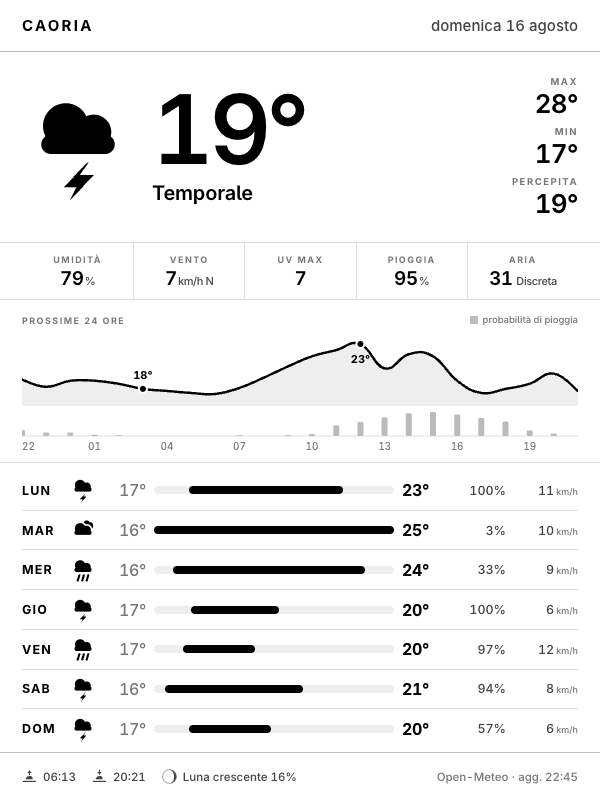
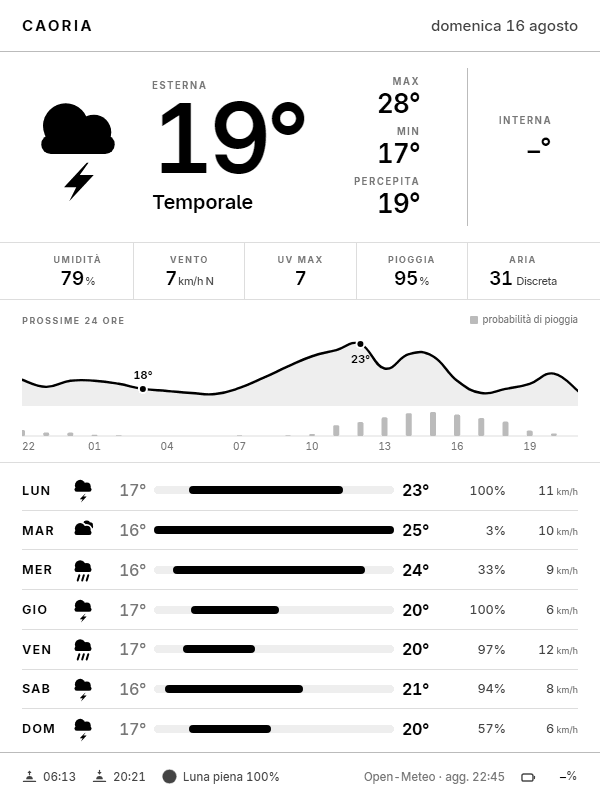
FIXED some bugs

diff --git a/src/k4weather/templates/style.css b/src/k4weather/templates/style.css
@@ -175,9 +175,10 @@ svg {
 /* ----------------------------------------------------- indoor temperature */
 
 /* The room's temperature is not rendered here: the Kindle writes it on top of
-   the image, in the bitmap font of `fbink` — 32x64 px per character, three of
-   them — or, where fbink is not installed, in the smaller one of `eips`. This
-   box is the hole left for it, and its position comes straight from
+   the image with `fbink`, in this page's own font at the size below — or, if
+   the font did not arrive, in fbink's bitmap face at 16x32 px per character,
+   three of them, and failing that in the smaller one of `eips`. This box is
+   the hole left for it, and its position comes straight from
    INDOOR_SLOT_* in model.py, in pixels of the final PNG — hence the absolute
    placement against `body`. Everything else in this block hangs off it, so
    there is exactly one number to get right.

diff --git a/src/k4weather/cli.py b/src/k4weather/cli.py
@@ -192,6 +192,16 @@ def cmd_inspect(args) -> int:
 
 
 def main(argv: list[str] | None = None) -> int:
+    # Windows chooses the ANSI code page for a redirected stream, and neither
+    # the check marks `inspect` prints nor the dashes in the log messages are
+    # in it: `python -m k4weather inspect out > report.txt` then died on an
+    # encode error rather than printing a report, and the same run through a
+    # terminal was fine. UTF-8 on both streams, and replacement rather than an
+    # exception wherever even that cannot be honoured.
+    for stream in (sys.stdout, sys.stderr):
+        if hasattr(stream, "reconfigure"):
+            stream.reconfigure(encoding="utf-8", errors="replace")
+
     parser = argparse.ArgumentParser(prog="k4weather")
     parser.add_argument("--config", default="config.yaml")
     parser.add_argument("-v", "--verbose", action="store_true")

diff --git a/tools/icon_sheet.py b/tools/icon_sheet.py
@@ -51,7 +51,9 @@ def main(out: str) -> None:
     # Same pipeline as the dashboard, so the sheet shows the icons exactly as
     # the panel will: 16 grays, no colour, no alpha.
     cfg = Config(
-        location=Location("contact sheet", 0, 0),
+        # A location is required and never used: the sheet renders icons, not a
+        # dashboard, and only the display geometry below reaches the screenshot.
+        locations=(Location(id="sheet", name="contact sheet", latitude=0, longitude=0),),
         display=Display(width=600, height=SHEET_MARGIN + len(names) * ROW_HEIGHT,
                         gray_levels=16),
     )

diff --git a/tools/indoor_font.py b/tools/indoor_font.py
@@ -94,7 +94,12 @@ def resolve(glyph: str, mapping: dict[str, str]) -> str:
 
 
 def build() -> Path:
-    font = TTFont(SOURCE)
+    # recalcTimestamp=False, or fontTools stamps `head.modified` with the
+    # current time on every save: rebuilding an unchanged font then produced a
+    # diff — the timestamp and the checksum computed over it — on a file that
+    # is committed on purpose. Left as it is, it is Inter's own date and moves
+    # only when Inter does.
+    font = TTFont(SOURCE, recalcTimestamp=False)
     mapping = single_substitutions(font, FEATURES)
     best = font.getBestCmap()
 

diff --git a/docs/setup.md b/docs/setup.md
@@ -93,7 +93,9 @@ curl -sI https://dev-whiterice.github.io/k4-weather/dashboard-caoria.png | head 
 The Pages site itself shows all of them side by side, which is the quickest way
 to see that a location you have just added really renders.
 
-From here on the workflow restarts by itself at :00 and :30.
+From here on the workflow restarts by itself at :07 and :37 — off the top and
+the bottom of the hour, which are the two minutes the GitHub Actions scheduler
+is most likely to delay or drop a run asked for.
 
 ## 5. Keep the scheduler alive (recommended)
 
@@ -135,8 +137,10 @@ Wi-Fi configured. Reference: [the MobileRead
 wiki](https://wiki.mobileread.com/wiki/Kindle4NTHacking).
 
 Worth doing first: put the `fbink` binary in `kindle/fbink`, so the installer
-carries it over. It is what draws the indoor temperature at a size you can read
-from a doorway; without it that one number comes out small
+carries it over. It is what writes on the image the two numbers only the device
+can know. Without it the indoor temperature comes out small, drawn by `eips`,
+and the battery level is not drawn at all — an `eips` cell is bigger than the
+footer it would land in
 ([details](../kindle/README.md#how-the-number-gets-on-screen)).
 
 ```sh
@@ -190,6 +194,8 @@ of the four possible faults it is.
 | The indoor temperature lands off its blank | Move it with `INDOOR_TEMP_X/Y`, in pixels, and `INDOOR_SLOT_X/Y` in `model.py` by the same amount — or the dash underneath stays where it was |
 | The indoor temperature is drawn small | `fbink` is not on the device, or not executable: `local/draw.sh` fell back to `eips`. See [`kindle/README.md`](../kindle/README.md#how-the-number-gets-on-screen) |
 | The indoor temperature reads too high | Normal before calibration: it is the battery, not the room. See [`kindle/README.md`](../kindle/README.md#calibrating-the-offset) |
+| The battery level stays a dash | Either `fbink` is missing — it is the only thing that draws this one — or the gauge is unreadable: `local/battery.sh --probe` on the device says which |
+| The battery level is half an hour old | By design: it is read when the panel wakes to draw, so it is exactly as old as the image beside it |
 | The KUAL entry starts nothing | Since the panel is launched detached, a failed start now says so on the screen and puts the tail of `dash.log` into `extensions/k4weather/kual.log`. If it does not even get that far, the installation was copied with **CRLF line endings** — see the row below |
 | Installed from Windows, and nothing works | busybox `ash` reads a carriage return as part of the value before it, so `DASH_DIR` names a directory that does not exist and `INTERACT` is not equal to `true`. *Meteo: diagnostica* names the files; *Meteo: avvia il pannello* repairs them; `make lineendings` then reinstalling fixes it at the source |
 | The page buttons do nothing | Press **power** first: the keypad on a Kindle 4 cannot wake the device. Then **KUAL > k4-weather > *Meteo: prova i tasti pagina***, which runs the real listening window and distinguishes the four causes: nothing read at all, codes this device sends that `KEY_NEXT`/`KEY_PREV` do not list, one location in the cache, or `INTERACT` not equal to `true`. `logs/dash.log` carries the same lines |
@@ -232,6 +238,7 @@ ssh root@192.168.15.244 /mnt/us/dashboard/stop.sh
 ssh root@192.168.15.244 /mnt/us/dashboard/start.sh
 ```
 
-A change that moves the blank left for the indoor temperature touches both
-halves at once. Update them in either order: until the second one lands, at most
-one refresh cycle draws the value beside its blank instead of inside it.
+A change that moves either blank the device writes into — the indoor
+temperature, the battery level — touches both halves at once. Update them in
+either order: until the second one lands, at most one refresh cycle draws the
+value beside its blank instead of inside it.

diff --git a/README.md b/README.md
@@ -8,6 +8,11 @@ alive.
 
 ![preview](docs/preview.png)
 
+> Straight out of `make preview`, which is why two figures are dashes: the
+> temperature of the room and the level of the battery are the only things on
+> the page no server can know, and the Kindle writes them into those blanks
+> itself once the image is on screen.
+>
 > The on-screen copy is in Italian on purpose — the panel hangs on an Italian
 > wall. Code, comments and documentation are in English.
 
